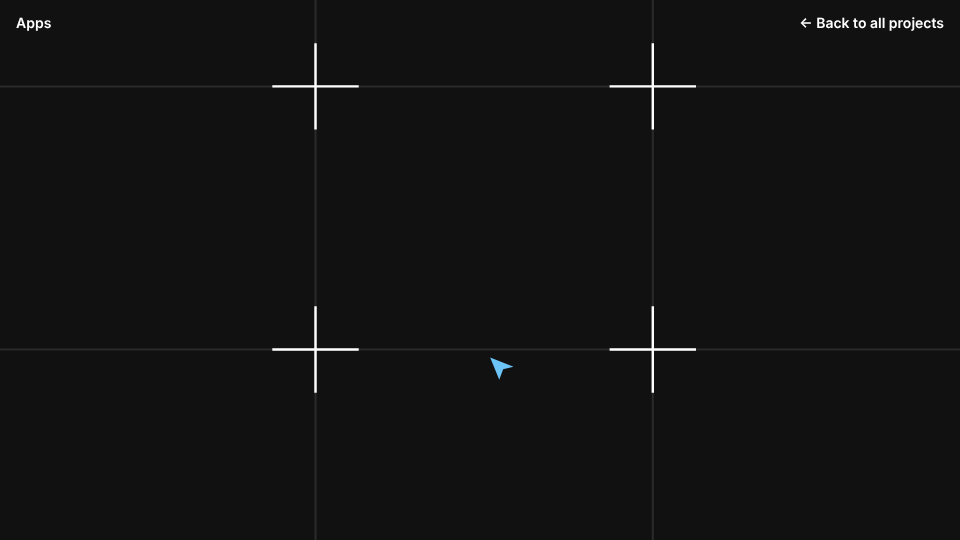
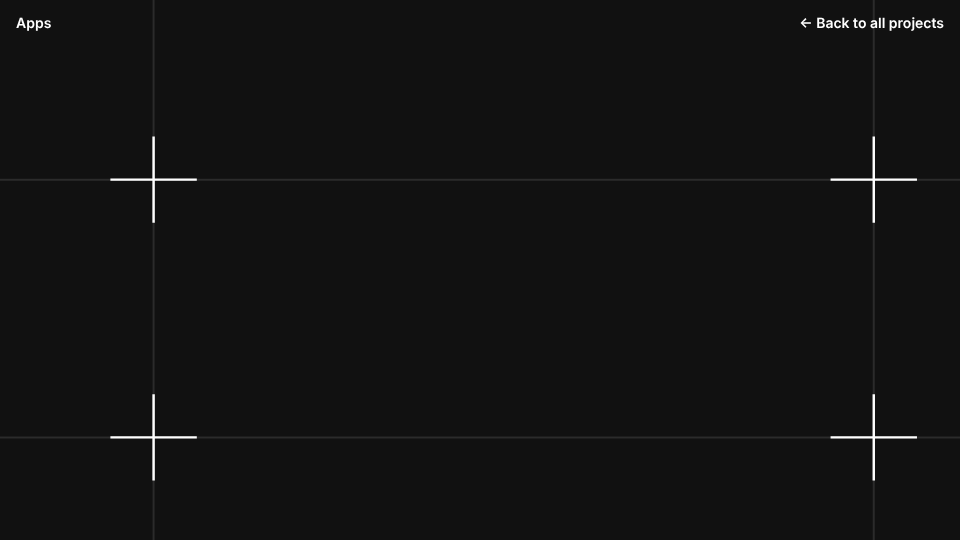
Remove cursor arrow from target frame motif
Claude-Session: https://claude.ai/code/session_01AHeBdyjYvjA4GXynQb1iWk

diff --git a/clearco-target-frame/index.html b/clearco-target-frame/index.html
@@ -21,7 +21,7 @@ nav.site a:hover{text-decoration:underline;text-underline-offset:4px}
 <canvas id="c" aria-label="Target square whose crosshairs and guide lines slide to resize it one axis at a time"></canvas>
 <script>
 /* Target frame motif: four crosshairs sit on the corners of a square, faint guide lines run edge to edge.
-   Each step slides ONE edge along ONE axis (horizontal, then vertical, ...) with a smooth ease, then rests. */
+   Each step slides ONE edge along ONE axis (horizontal, then vertical, ...) with a smooth ease. */
 const cv = document.getElementById('c'), ctx = cv.getContext('2d');
 const reduce = matchMedia('(prefers-reduced-motion: reduce)').matches;
 let W = 0, H = 0, DPR = 1;
@@ -32,7 +32,6 @@ const rand = (a, b) => a + Math.random() * (b - a);
 
 const f = { l: 0, r: 0, t: 0, b: 0 };          // frame edges (px)
 let step = null, axisH = true, wait = 0.6;
-const cur = { x: -50, y: 0, tx: 0, ty: 0, a: 0 };   // cursor that grabs the moving edge
 
 function resize() {
   DPR = Math.min(2, devicePixelRatio || 1);
@@ -65,16 +64,6 @@ function update(dt) {
     f[step.edge] = lerp(step.from, step.to, ease(step.t));
     if (step.t >= 1) { step = null; wait = rand(.35, .7); }
   } else { wait -= dt; if (wait <= 0) nextStep(); }
-
-  // cursor: glide to the middle of the moving edge, otherwise drift off to rest by the frame
-  if (step) {
-    const e = step.edge;
-    cur.tx = step.horiz ? f[e] : (f.l + f.r) / 2;
-    cur.ty = step.horiz ? (f.t + f.b) / 2 : f[e];
-    cur.a = lerp(cur.a, 1, Math.min(1, dt * 8));
-  } else cur.a = lerp(cur.a, 0, Math.min(1, dt * 6));
-  const k = 1 - Math.exp(-dt * 14);
-  cur.x = lerp(cur.x, cur.tx, k); cur.y = lerp(cur.y, cur.ty, k);
 }
 
 function draw() {
@@ -97,15 +86,6 @@ function draw() {
     ctx.moveTo(x, y - arm); ctx.lineTo(x, y + arm);
   }
   ctx.stroke();
-
-  // cursor arrow
-  if (cur.a > .01) {
-    ctx.save();
-    ctx.globalAlpha = cur.a; ctx.translate(cur.x + 6, cur.y + 6); ctx.scale(1.3, 1.3);
-    ctx.fillStyle = '#6cc3f5';
-    ctx.beginPath(); ctx.moveTo(0, 0); ctx.lineTo(18, 7); ctx.lineTo(10, 9); ctx.lineTo(7, 17); ctx.closePath(); ctx.fill();
-    ctx.restore();
-  }
 }
 
 let last = performance.now();
